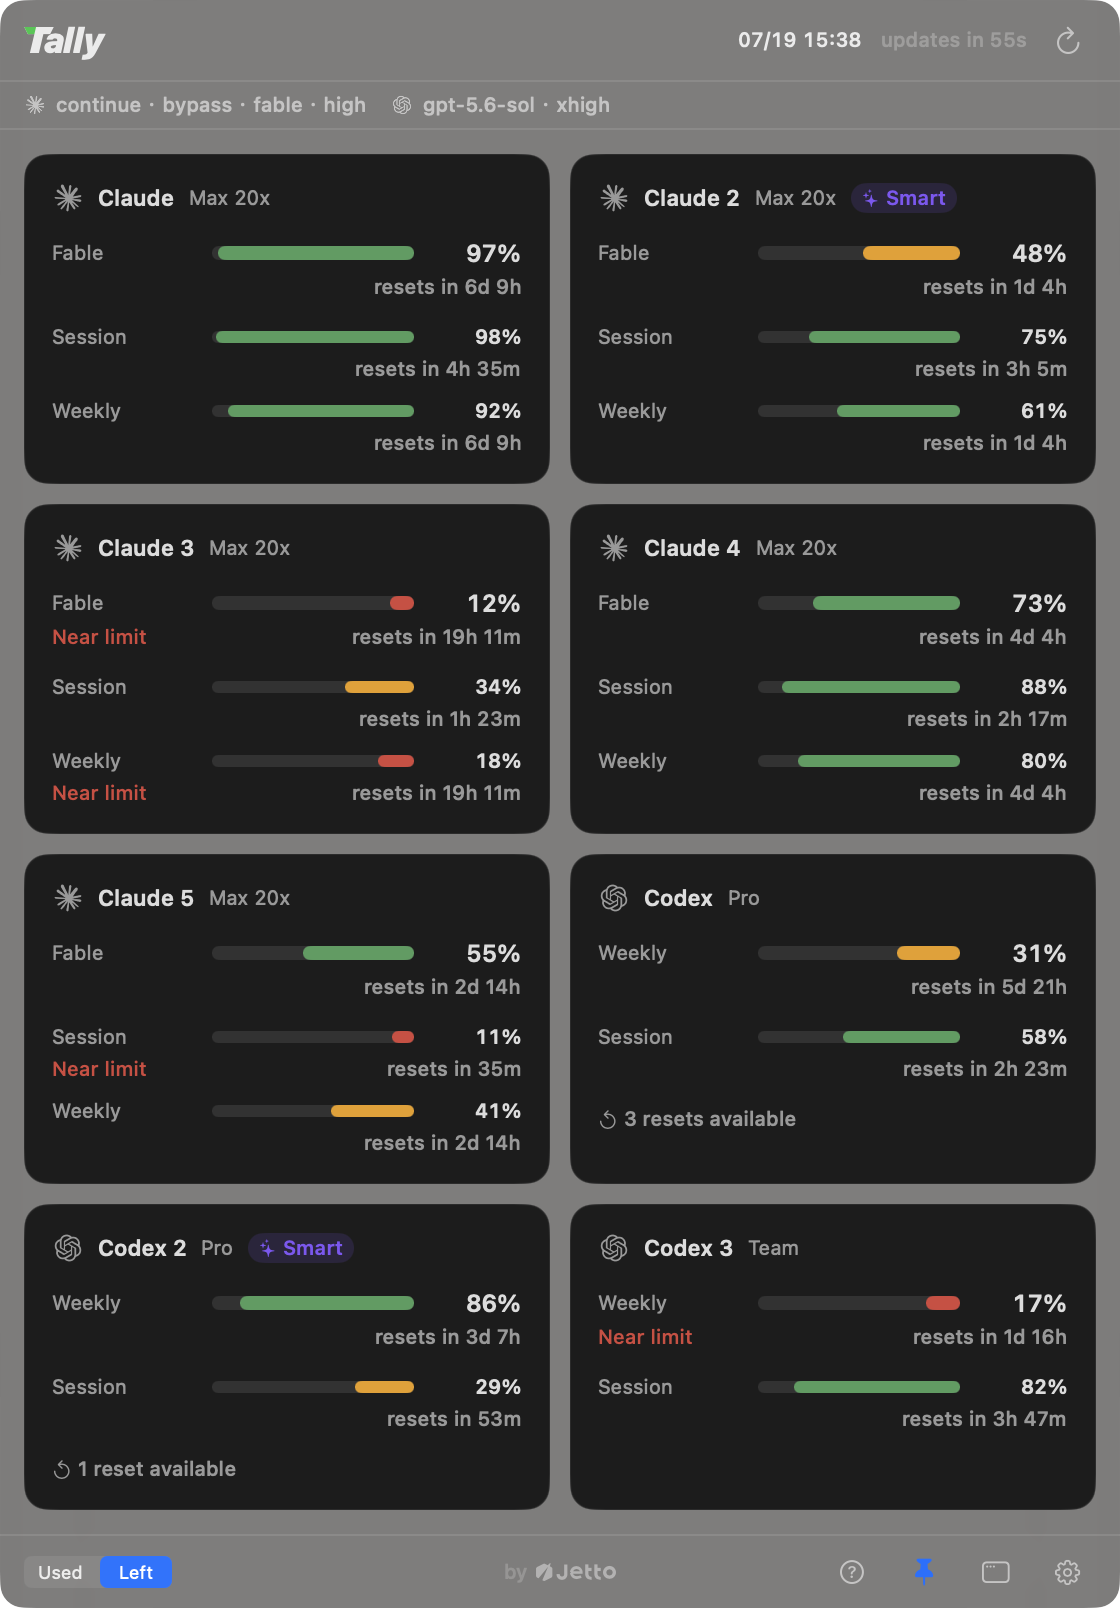
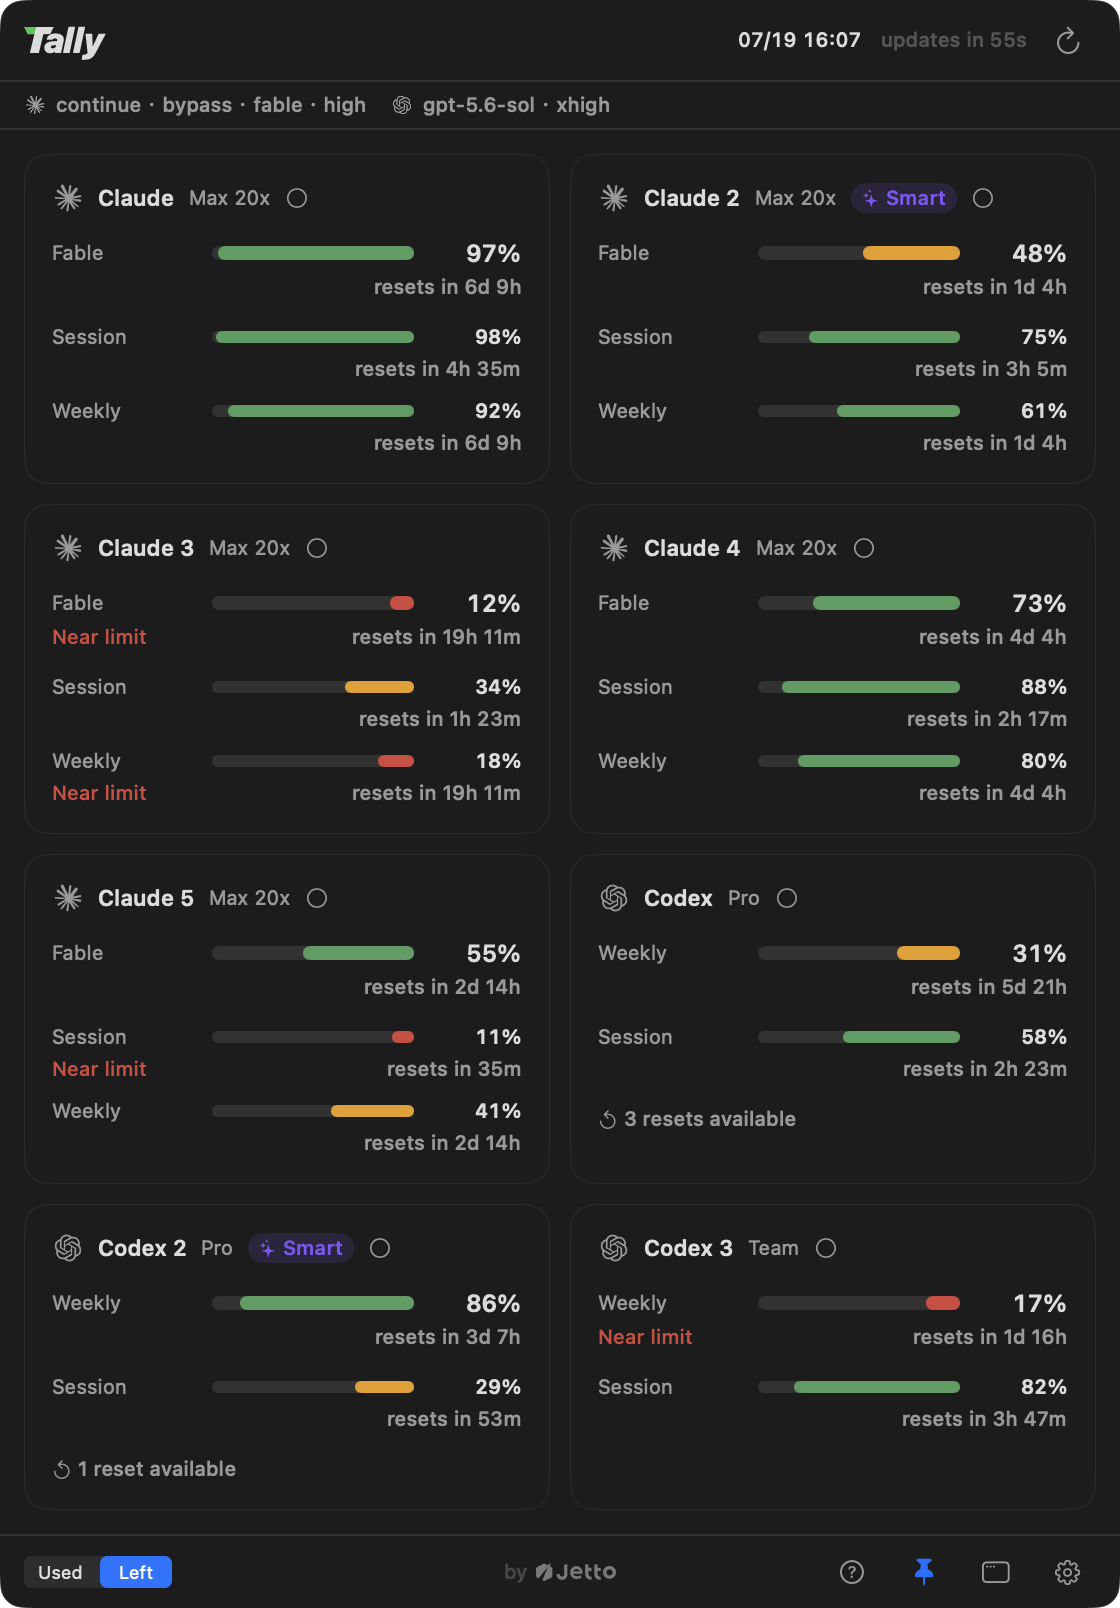
fix(ui): launch-policy switching moves to explicit controls; solid screenshot
The card-wide tap made every stray click a policy change (a redeem-button
near-miss re-pinned an account). Pinning now happens only on the small
per-card radio (shown in Smart mode too), and the pin badge itself is the
release-to-Smart button; help copy follows. Screenshot asset recaptured on
the solid dark panel - the frosted glass read as murky in the README.

Changed region(s): [[0.0, 0.0, 1.0, 1.0]]

diff --git a/Tally/Views/AccountCardView.swift b/Tally/Views/AccountCardView.swift
@@ -132,10 +132,9 @@ struct AccountCardView: View {
         .frame(maxHeight: fillsRowHeight ? .infinity : nil, alignment: .top)
         .tallyCard()
         .onHover { if showsDragHandle { isHovering = $0 } }
-        // Click cycles the launch pin: pin this account (Manual), click again for Auto. A plain
-        // tap never conflicts with the container's reorder drag (4pt minimum distance) and child
-        // buttons still win their own hits. No-op for single-account providers.
-        .onTapGesture { toggleLaunchPin() }
+        // Deliberately NO card-wide tap: it made every stray click a launch-policy change (a
+        // redeem-button near-miss re-pinned an account, 2026-07-19). Switching happens only on
+        // the explicit header controls: the ◯ pins, the pin badge releases back to Smart.
     }
 
     private var header: some View {
@@ -154,7 +153,9 @@ struct AccountCardView: View {
                 // distinct from the auto badge); the OTHER cards keep the hollow radio as the
                 // click-to-choose affordance.
                 case .manual: if isPinnedActive { manualBadge } else { pinControl }
-                case .auto: if isAutoPick { autoBadge }
+                case .auto:
+                    if isAutoPick { autoBadge }
+                    pinControl
                 case .off: EmptyView()
                 }
             }
@@ -176,20 +177,8 @@ struct AccountCardView: View {
         }
     }
 
-    /// Card click: pin this account (switching the provider to Manual); clicking the already
-    /// pinned card releases back to Auto - one gesture covers the whole choose/release loop.
-    private func toggleLaunchPin() {
-        guard hasSiblings else { return }
-        let policy = LaunchPolicyStore.shared
-        if isPinnedActive {
-            policy.setMode(usage.providerID, .auto)
-        } else {
-            let home = UsageStore.shared.discoveredAccounts.first { $0.id == usage.id }?.launchHome
-            policy.pin(usage.providerID, accountID: usage.id, home: home)
-        }
-    }
-
-    /// Manual mode: a radio per card - the filled one is where new sessions launch; click to move it.
+    /// A radio per card - the filled one is where new sessions launch; click to move the pin
+    /// (shown in Smart mode too, so pinning is one deliberate click on a small target).
     private var pinControl: some View {
         Button {
             let home = UsageStore.shared.discoveredAccounts.first { $0.id == usage.id }?.launchHome
@@ -207,16 +196,22 @@ struct AccountCardView: View {
     /// Manual mode, pinned card: warm colour + pin glyph, deliberately distinct from the cool
     /// auto badge - a human override should not look like the machine's pick.
     private var manualBadge: some View {
-        HStack(spacing: 3) {
-            Image(systemName: "pin.fill").font(.system(size: 8))
-            Text(L("Pinned")).lineLimit(1)
+        Button {
+            LaunchPolicyStore.shared.setMode(usage.providerID, .auto)
+        } label: {
+            HStack(spacing: 3) {
+                Image(systemName: "pin.fill").font(.system(size: 8))
+                Text(L("Pinned")).lineLimit(1)
+            }
+            .fixedSize()   // a badge must never wrap (a two-line capsule broke the header, 2026-07-18)
+            .font(.caption2.weight(.semibold))
+            .foregroundStyle(Color.orange)
+            .padding(.horizontal, 5).padding(.vertical, 1)
+            .background(Capsule().fill(Color.orange.opacity(0.15)))
+            .contentShape(Capsule())
         }
-        .fixedSize()   // a badge must never wrap (a two-line capsule broke the header, 2026-07-18)
-        .font(.caption2.weight(.semibold))
-        .foregroundStyle(Color.orange)
-        .padding(.horizontal, 5).padding(.vertical, 1)
-        .background(Capsule().fill(Color.orange.opacity(0.15)))
-        .help(L("Manual: every new session uses this account. Click the card to go back to Smart."))
+        .buttonStyle(.plain)
+        .help(L("Manual: every new session uses this account. Click this badge to go back to Smart."))
     }
 
     /// Smart mode: marks the card the next launch would pick. Copy lesson, twice over: "Auto"

diff --git a/Tally/Views/PopoverLaunchViews.swift b/Tally/Views/PopoverLaunchViews.swift
@@ -103,7 +103,7 @@ extension PopoverRootView {
             Text(L("A ✦ in the status line means the session was launched by Tally."))
                 .font(.caption).foregroundStyle(.secondary)
                 .fixedSize(horizontal: false, vertical: true)
-            Text(L("Click a card to pin that account (Manual); click it again to go back to Smart."))
+            Text(L("Pin an account with the ◯ on its card; click the pin badge to go back to Smart."))
                 .font(.caption).foregroundStyle(.secondary)
                 .fixedSize(horizontal: false, vertical: true)
         }